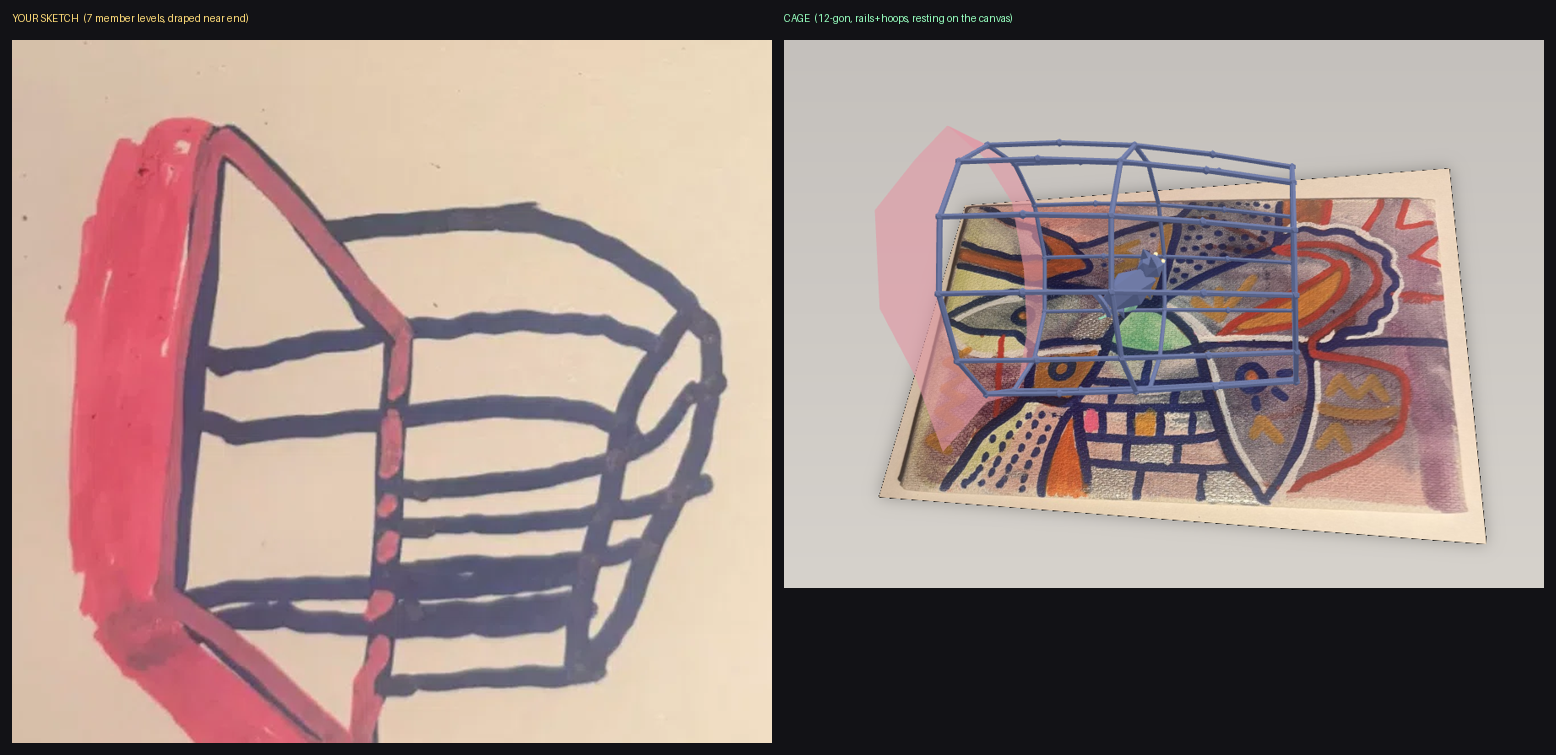
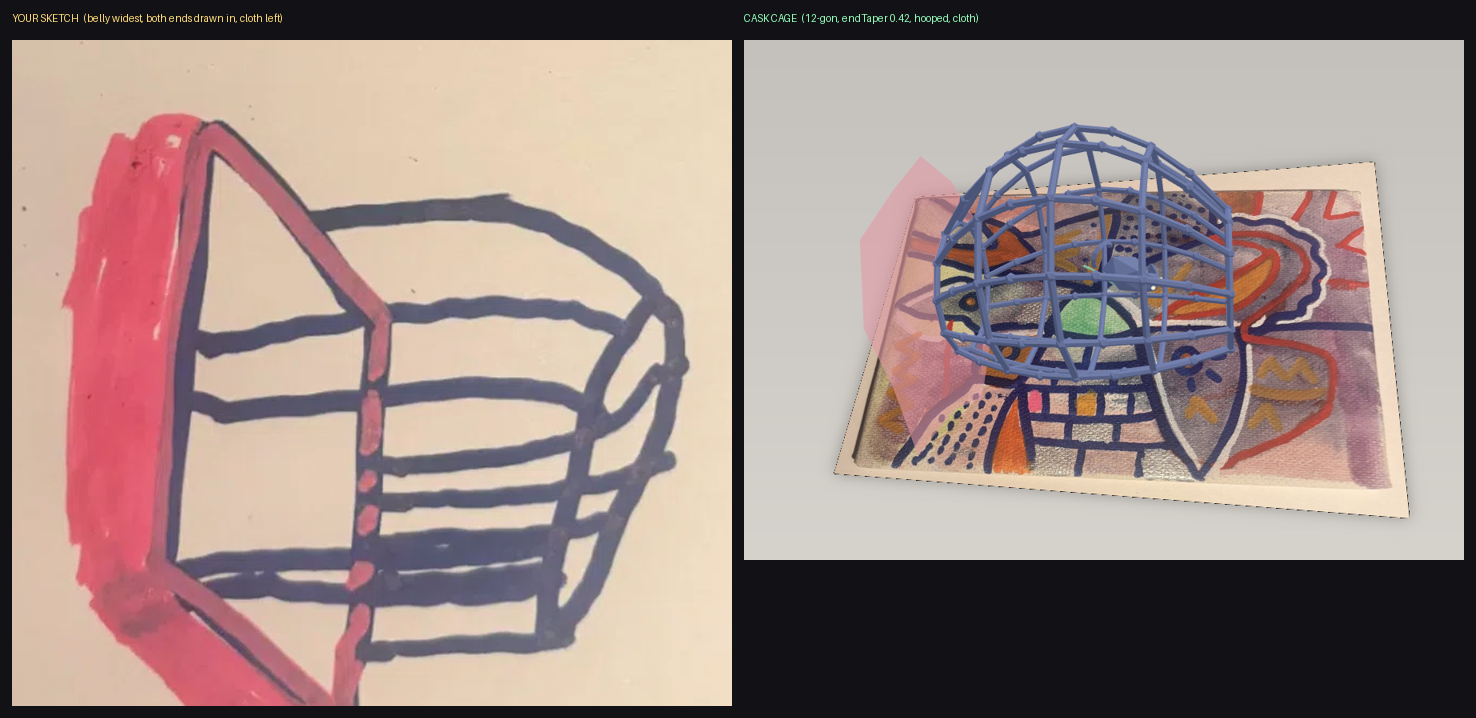
Refine the cage into a cask: measure the belly, not a cone
Measuring the sketch's ink as vertical extent per column gives 245px at the near
end, 415px at mid-length, 170px at the far end. The belly is the widest point and
BOTH ends draw in, so the form is a cask, not the cone my first pass implied and
not a cylinder. The far end reads smaller still because it is further away.

- replace taper/belly with a single endTaper (ends at 0.58 of the belly radius)
- 9 rail stations so the barrel profile reads; 5 hoops along the length
- heavier members (0.0042 -> 0.0058) to match the sketch's marker weight
- cloth sized off the belly rather than the near ring, so it spills past the cage
  on every side the way the drawing does
- docs updated; docs/cage-from-sketch.png regenerated

diff --git a/index.html b/index.html
@@ -117,18 +117,23 @@ const ART_H = 1 / TARGET_AR;      /* 0.7222 — painting height in anchor units 
    a 12-sided barrel lying on the canvas. */
 const CAGE = {
   length: 0.50,        /* along the axis, in painting widths */
-  radius: 0.215,       /* section circumradius at the near end */
-  taper: 0.82,         /* far-end radius / near-end radius (the sketch tapers) */
-  belly: 0.05,         /* slight barrel bulge mid-length */
-  sides: 12,
-  stroke: 0.0042,      /* member thickness — matches the painting's line weight */
+  radius: 0.215,       /* section circumradius at the belly (mid-length) */
+  /* Measured off the sketch's ink, as vertical extent per column: 245px at the
+     near end, 415px at mid-length, 170px at the far end. The belly is the widest
+     point and BOTH ends draw in, so this is a cask — not a cone, and not a
+     cylinder. endTaper 0.42 puts the ends at 0.58 of the belly, matching the
+     near end; the far end reads smaller still because it is further away. */
+  endTaper: 0.42,
+  sides: 12,           /* 12-gon: gives the sketch's ~7 distinct member levels */
+  stroke: 0.0058,      /* member thickness — matches the painting's line weight */
   yaw: 0,              /* 0 = axis across the painting, PI/2 = axis into it */
-  drapeDepth: 0.075,   /* how far the cloth spills past the near end */
-  drapeFlare: 1.20,
-  drapeSag: 0.055,
+  drapeDepth: 0.070,   /* how far the cloth spills past the near end */
+  drapeFlare: 1.22,
+  drapeSag: 0.080,
 };
-CAGE.centreY = CAGE.radius * (1 + CAGE.belly) * Math.cos(Math.PI / CAGE.sides);
-/* the cat and mouse circle the floor inside the barrel */
+/* Height of the cask's axis at its belly — the tallest point of the silhouette */
+CAGE.centreY = CAGE.radius * Math.cos(Math.PI / CAGE.sides);
+/* the cat and mouse circle the floor inside the cask */
 const ORBIT = 0.090;
 
 /* Every cage parameter can be overridden from the URL while art-directing, e.g.
@@ -189,21 +194,21 @@ function buildScene(scene) {
   });
 
   /* ---------- the cage, from the artist's sketch ------------------------------
-     The sketch measures out as: ~7 distinct horizontal member levels, a vertical
-     member at each end, an overall length/height ratio of ~1.14, and a pink cloth
-     draped over the near end. A 12-sided section is what produces exactly 7
-     distinct rail heights under projection (cos 15/45/75 deg give 7 levels), so
-     the cage is a 12-gon barrel: 12 longitudinal rails, hoops at both ends and
-     mid-length, resting its belly on the canvas. */
+     Measured off the sketch: ~7 distinct horizontal member levels, a vertical
+     member at each end, a length/height ratio of ~1.14, a belly that is the
+     widest point with both ends drawn in, and a pink cloth over the near end.
+     A 12-sided section is what produces exactly 7 distinct rail heights under
+     projection (cos 15/45/75 deg), so the cage is a 12-gon cask: 12 longitudinal
+     rails over a barrel profile, hooped along its length, resting on its belly. */
   const sides = CAGE.sides;
   const halfL = CAGE.length / 2;
 
-  /* section radius along the axis: a slight barrel belly, tapering to the far end */
-  const radiusAt = (t) => CAGE.radius * (1 - (1 - CAGE.taper) * t)
-                           * (1 + CAGE.belly * Math.sin(Math.PI * t));
+  /* cask profile: fattest at mid-length, both ends drawn in */
+  const radiusAt = (t) => CAGE.radius * (1 - CAGE.endTaper * (2 * t - 1) ** 2);
 
-  /* Each station is lifted so the lowest facet rests exactly on the canvas: the
-     barrel's whole underside touches the artwork instead of floating at the tip. */
+  /* Each station is lifted so the lowest facet rests on the canvas. With a barrel
+     profile that means the belly carries the cask — the ends lift slightly, which
+     is how a cask actually sits. */
   const sectionAt = (t) => {
     const r = radiusAt(t);
     const x = -halfL + t * CAGE.length;
@@ -215,8 +220,8 @@ function buildScene(scene) {
     }
     return pts;
   };
-  const STATIONS = [0, 0.25, 0.5, 0.75, 1];
-  const HOOPS = [0, 0.5, 1];
+  const STATIONS = [0, 1 / 8, 2 / 8, 3 / 8, 4 / 8, 5 / 8, 6 / 8, 7 / 8, 1];
+  const HOOPS = [0, 0.25, 0.5, 0.75, 1];
   const sections = STATIONS.map(sectionAt);
 
   /* merge every member + joint into ONE geometry (one draw call) */
@@ -259,7 +264,9 @@ function buildScene(scene) {
     const a = (k + 0.5) * 2 * Math.PI / sides;
     /* deterministic irregularity — a hand-thrown cloth, not a lathe */
     const wobble = 1 + 0.10 * Math.sin(k * 2.7) + 0.06 * Math.cos(k * 4.1);
-    const rr = nearR * CAGE.drapeFlare * wobble;
+    /* sized off the BELLY, not the near ring: in the sketch the cloth reaches
+       well past the cage on every side, not hugging the small end */
+    const rr = CAGE.radius * CAGE.drapeFlare * wobble;
     /* the hem hangs lower where the cloth is not pinned (cos a < 0), and spills
        further out in places, so the outline stays soft instead of lathe-like */
     const hemDrop = CAGE.drapeSag * (0.35 + 0.65 * Math.max(0, -Math.cos(a))) * wobble;
@@ -280,7 +287,7 @@ function buildScene(scene) {
      sketch's pink is a flat marker colour anyway. depthWrite off so the cage
      reads through it, the way it does in the drawing. */
   cage.add(new THREE.Mesh(drapeGeo, new THREE.MeshBasicMaterial({
-    color: DRAPE, side: THREE.DoubleSide, transparent: true, opacity: 0.62,
+    color: DRAPE, side: THREE.DoubleSide, transparent: true, opacity: 0.58,
     depthWrite: false,
   })));
 

diff --git a/README.md b/README.md
@@ -1,8 +1,8 @@
 # AR Dome — artwork augment
 
-Point your phone camera at the painting and a low-poly hooped cage in the same
-blue as the artwork's linework anchors to it in AR — a pink cloth thrown over one
-end, and a low-poly cat chasing a mouse along the floor inside.
+Point your phone camera at the painting and a low-poly cask cage in the same blue
+as the artwork's linework anchors to it in AR — a pink cloth thrown over one end,
+and a low-poly cat chasing a mouse along the floor inside.
 
 **Live:** https://edwin607.github.io/ar-dome/
 
@@ -33,22 +33,28 @@ the "not aligning" bug. See SKILL.md for the full write-up.
 
 ## The cage (from the artist's sketch)
 
-Measuring the sketch in the reference photo gives ~7 distinct horizontal member
-levels, a vertical member at each end, an overall length/height of ~1.14, and a
-pink cloth over the near end. A **12-sided section is what yields exactly 7
-distinct rail heights** under projection (cos 15/45/75°), so the cage is a
-12-gon barrel: 12 longitudinal rails, hoops at both ends and mid-length, resting
-its whole underside on the canvas.
+Measuring the sketch's ink in the reference photo, as vertical extent per column:
+**245px at the near end, 415px at mid-length, 170px at the far end.** The belly is
+the widest point and *both* ends draw in — so this is a cask, not a cone and not a
+cylinder. The far end reads smaller still because it is further away.
+
+A **12-sided section is what yields exactly 7 distinct member levels** under
+projection (cos 15/45/75°), and the sketch shows ~7, so the cage is a 12-gon cask:
+12 longitudinal rails over a barrel profile, hooped along its length, resting on
+its belly, with a pink cloth thrown over the near end.
 
 | parameter | value | note |
 |---|---|---|
 | `length` | `0.50` | along the axis, in painting widths |
-| `radius` | `0.215` | section circumradius at the near end |
-| `taper` | `0.82` | far-end radius / near-end radius |
-| `sides` | `12` | gives the sketch's 7 rail levels |
-| `stroke` | `0.0042` | member radius — matches the painting's line weight |
+| `radius` | `0.215` | section circumradius at the belly |
+| `endTaper` | `0.42` | ends sit at 0.58 of the belly radius |
+| `sides` | `12` | gives the sketch's ~7 member levels |
+| `stroke` | `0.0058` | member radius — matches the painting's line weight |
 | `yaw` | `0` | `0` = axis across the painting, `PI/2` = axis into it |
-| `drapeFlare` / `drapeSag` | `1.20` / `0.055` | cloth over the near end |
+| `drapeFlare` / `drapeSag` | `1.22` / `0.080` | cloth over the near end |
+
+Every parameter is overridable from the URL, so the shape can be tuned on a phone
+next to the painting: `?yaw=1.5708&length=0.42&radius=0.19&endTaper=0.5`.
 
 ![Cage from the sketch](docs/cage-from-sketch.png)
 

diff --git a/SKILL.md b/SKILL.md
@@ -77,4 +77,4 @@ if this frame is wrong.
 - `tools/chunk.py` — split binary into `<prefix>.aa/.ab/...` + manifest
 - `tools/smoke_test.py` — headless boot test with optional fake camera + screenshot
 - `tools/align_test.py` — alignment regression test; feeds a synthetic camera view of the painting via a canvas MediaStream and asserts the anchor frame lands on it and the augment stands on it
-- `index.html` — reference page (gazebo augment, cat/mouse chase, all fixes applied)
+- `index.html` — reference page (cask-cage augment, cat/mouse chase, all fixes applied)
